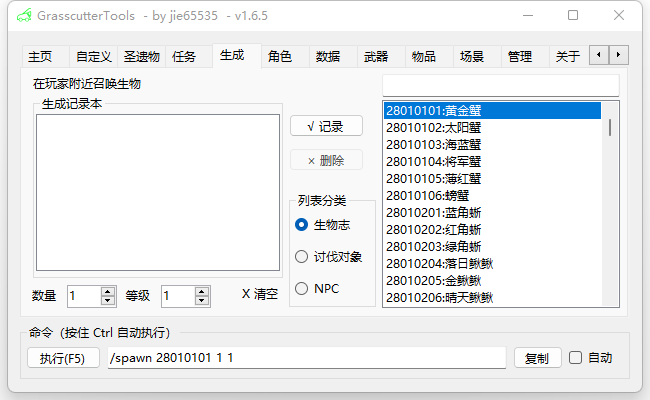
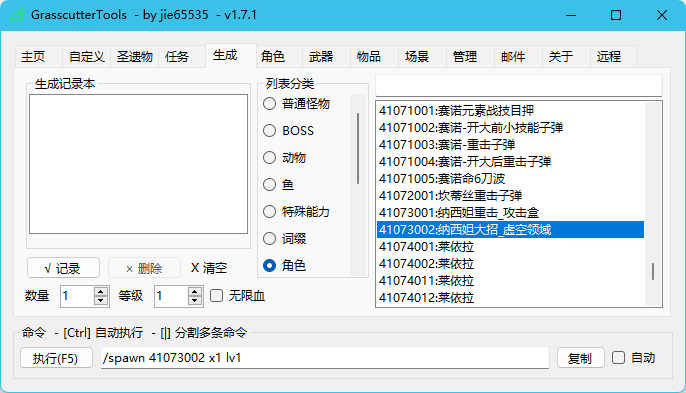
Update README and translate

Changed region(s): [[0.0, 0.0, 1.0, 1.0], [0.3692, 0.458, 0.4308, 0.4885], [0.9231, 0.6718, 0.9538, 0.7023]]

diff --git a/Source/GrasscutterTools/Properties/Resources.Designer.cs b/Source/GrasscutterTools/Properties/Resources.Designer.cs
@@ -489,7 +489,7 @@ namespace GrasscutterTools.Properties {
         ///查看坐标
         ////pos
         ///获取全部物品
-        ////give all x9999 lv90 c6 r5
+        ////give all x9999 lv90 c6 r5 sl10
         ///一万纠缠
         ////give 223 x10000
         ///一万相遇
@@ -507,7 +507,7 @@ namespace GrasscutterTools.Properties {
         ///清空全部角色命之座(需重登)
         ////resetconst all
         ///清空背包
-        ////clear all lv90 r [字符串的其余部分被截断]&quot;; 的本地化字符串。
+        ////clear all l [字符串的其余部分被截断]&quot;; 的本地化字符串。
         /// </summary>
         internal static string CustomCommands {
             get {

diff --git a/README_zh-cn.md b/README_zh-cn.md
@@ -16,6 +16,11 @@
 欢迎大家一起来完善工具的[内置资源](/Source/GrasscutterTools/Resources/zh-cn)。
 
 ## Update log
+
+### GrasscutterTools-v1.7.1
+
+![Spawn Entity Screenshort](Doc/Screenshots/6-SpawnEntity.png)
+
 ### GrasscutterTools-v1.7.0
 
 ![Run Commands](Doc/Screenshots/RunMultipleCommands.png)
